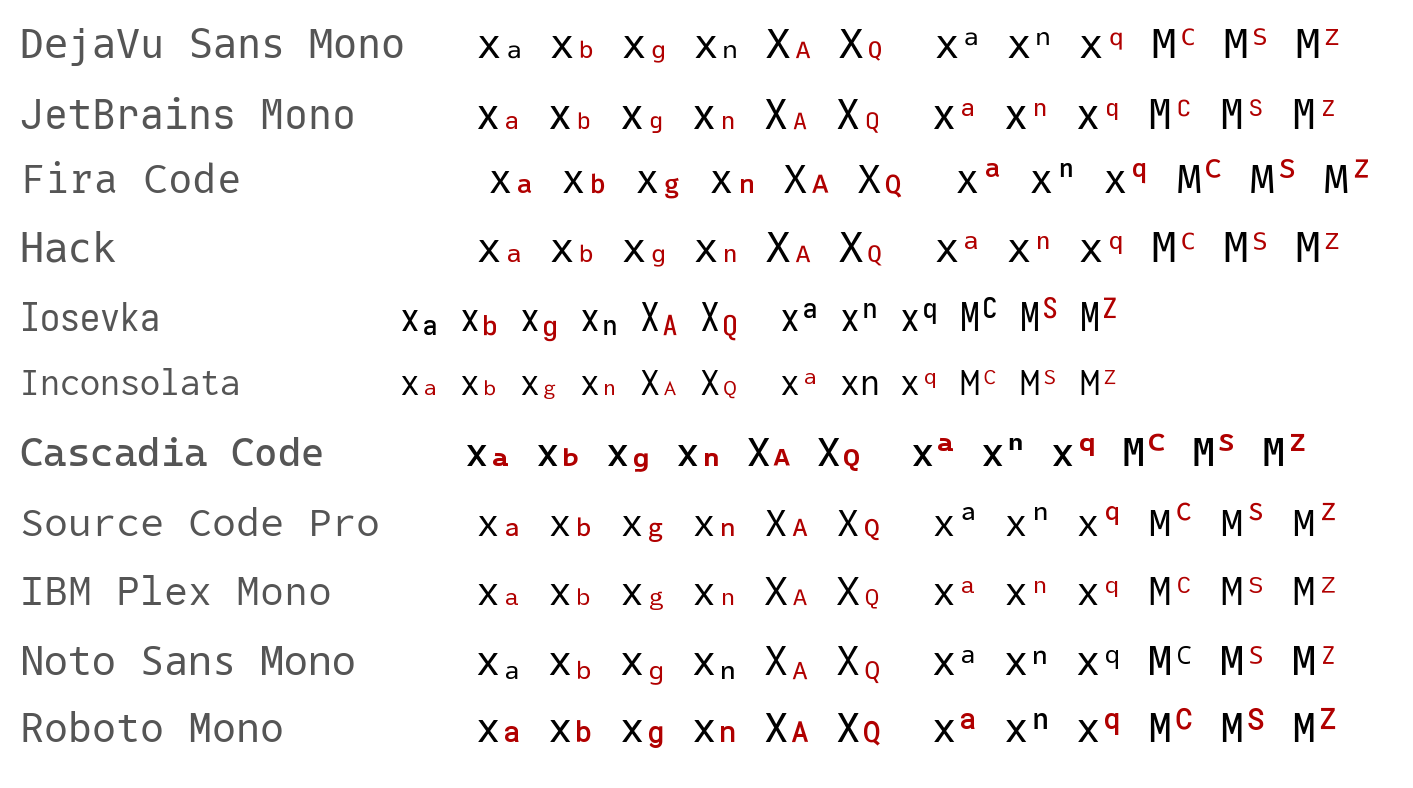
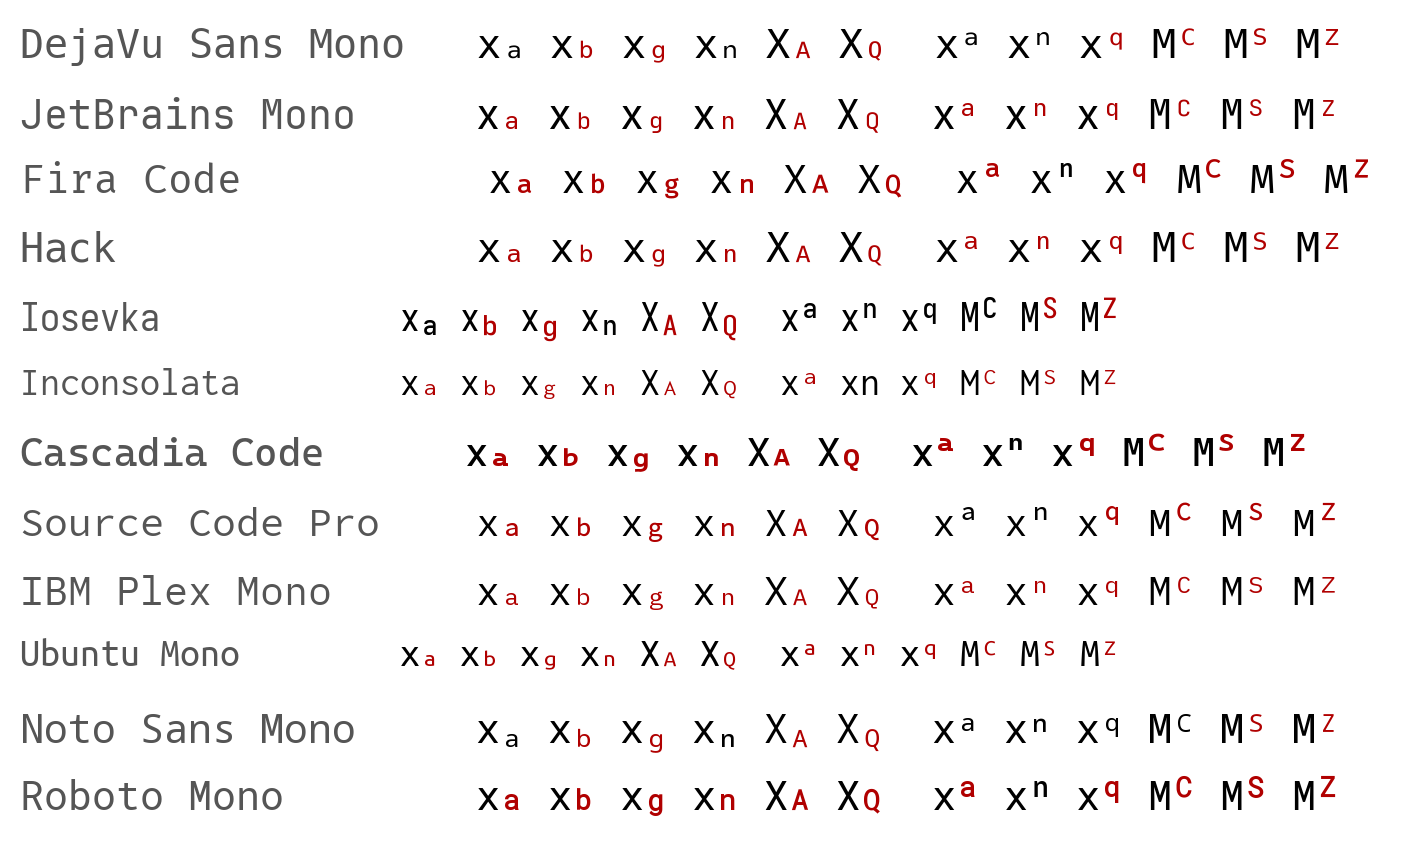
[c] add Teranga Mono Scripts, the companion for Ubuntu Mono, renamed as the Ubuntu Font Licence requires

diff --git a/README.md b/README.md
@@ -28,10 +28,11 @@ Private-use characters show as boxes anywhere without a companion font, so text 
 | CaskaydiaCove Scripts | Cascadia Code 2407.24 | OFL 1.1 |
 | SauceCodePro Scripts | Source Code Pro 2.042 | OFL 1.1 |
 | BlexMono Scripts | IBM Plex Mono 2.005 | OFL 1.1 |
+| Teranga Mono Scripts | Ubuntu Mono 0.80 | Ubuntu Font Licence 1.0 |
 | Noto Sans Mono Scripts | Noto Sans Mono 2.014 | OFL 1.1 |
 | Roboto Mono Scripts | Roboto Mono 3.001 | OFL 1.1 |
 
-Cascadia Code, Source Code Pro, and IBM Plex Mono have Reserved Font Names, so modified versions cannot use their names. Their companions use the names [Nerd Fonts](https://github.com/ryanoasis/nerd-fonts) chose for the same reason.
+Cascadia Code, Source Code Pro, and IBM Plex Mono have Reserved Font Names, so modified versions cannot use their names. Their companions use the names [Nerd Fonts](https://github.com/ryanoasis/nerd-fonts) chose for the same reason. The Ubuntu Font Licence requires a version as changed as a companion to avoid the Ubuntu name entirely, so the Ubuntu Mono companion is called Teranga Mono Scripts.
 
 Each folder in `fonts/` holds the companion, the license of the font it was made from (which also covers the companion), and config snippets for kitty, Ghostty, and fontconfig. Each companion holds only the letters its font lacks, between 39 and 104 of them.
 
